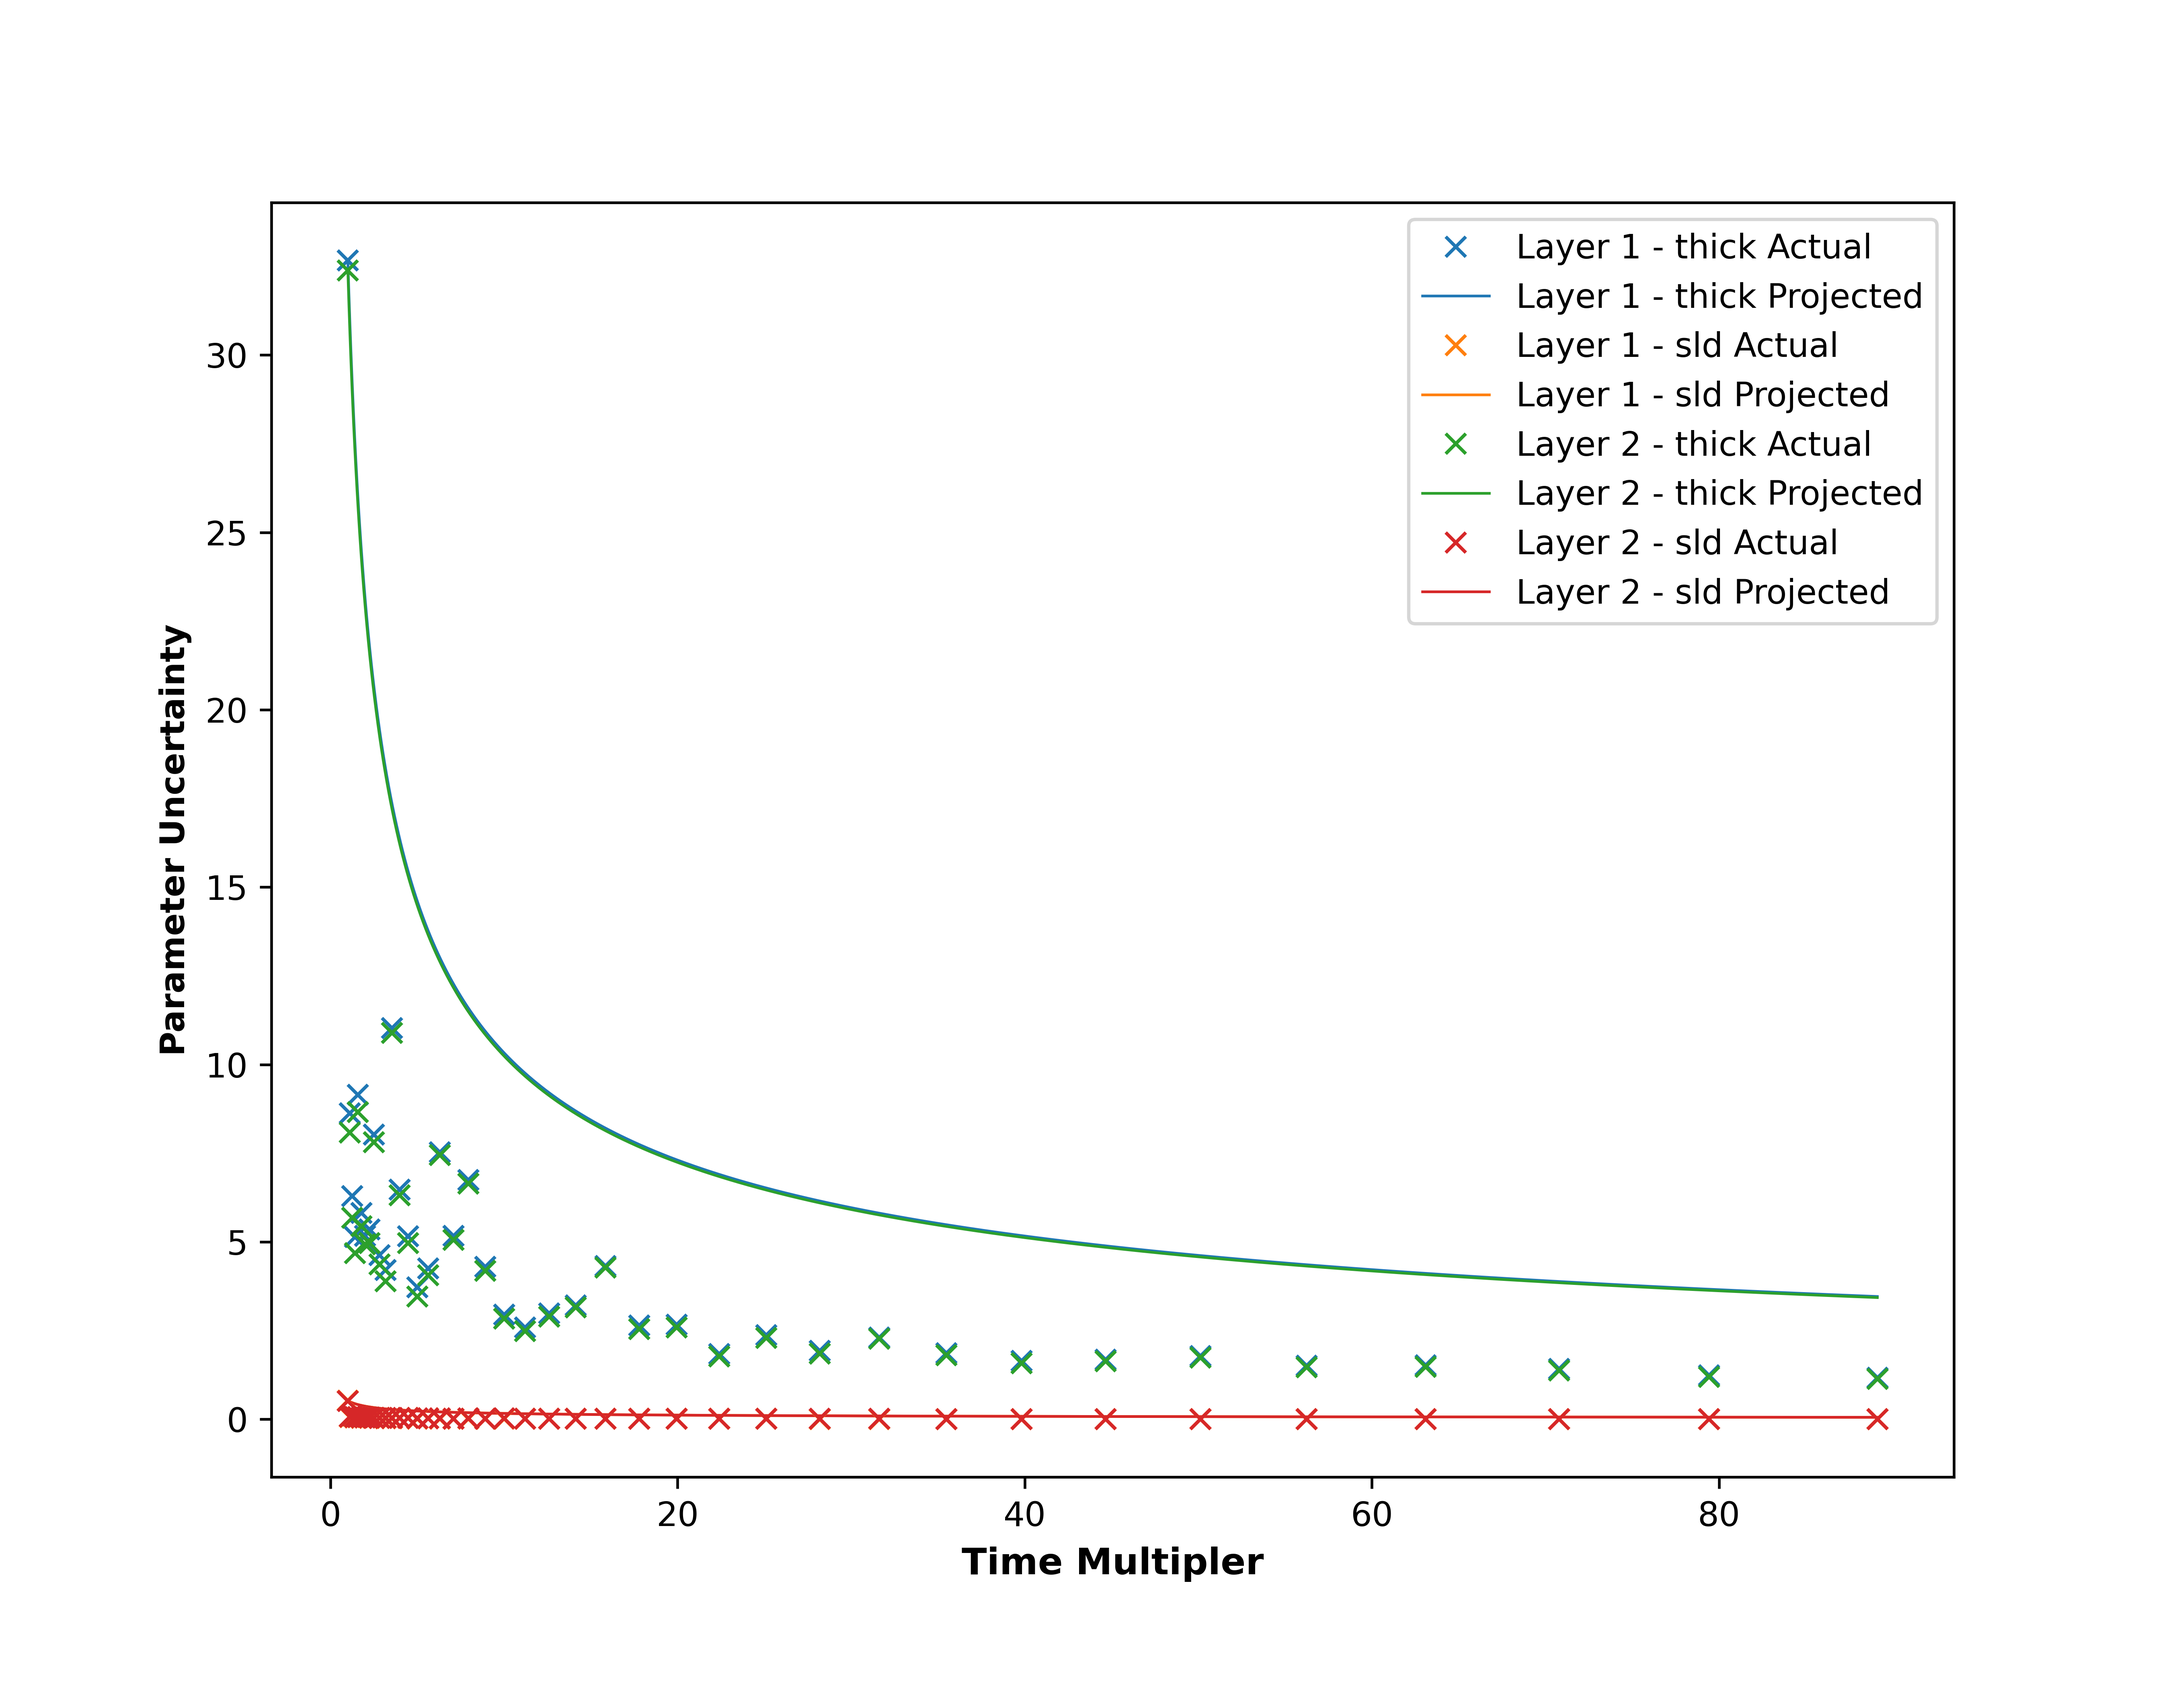
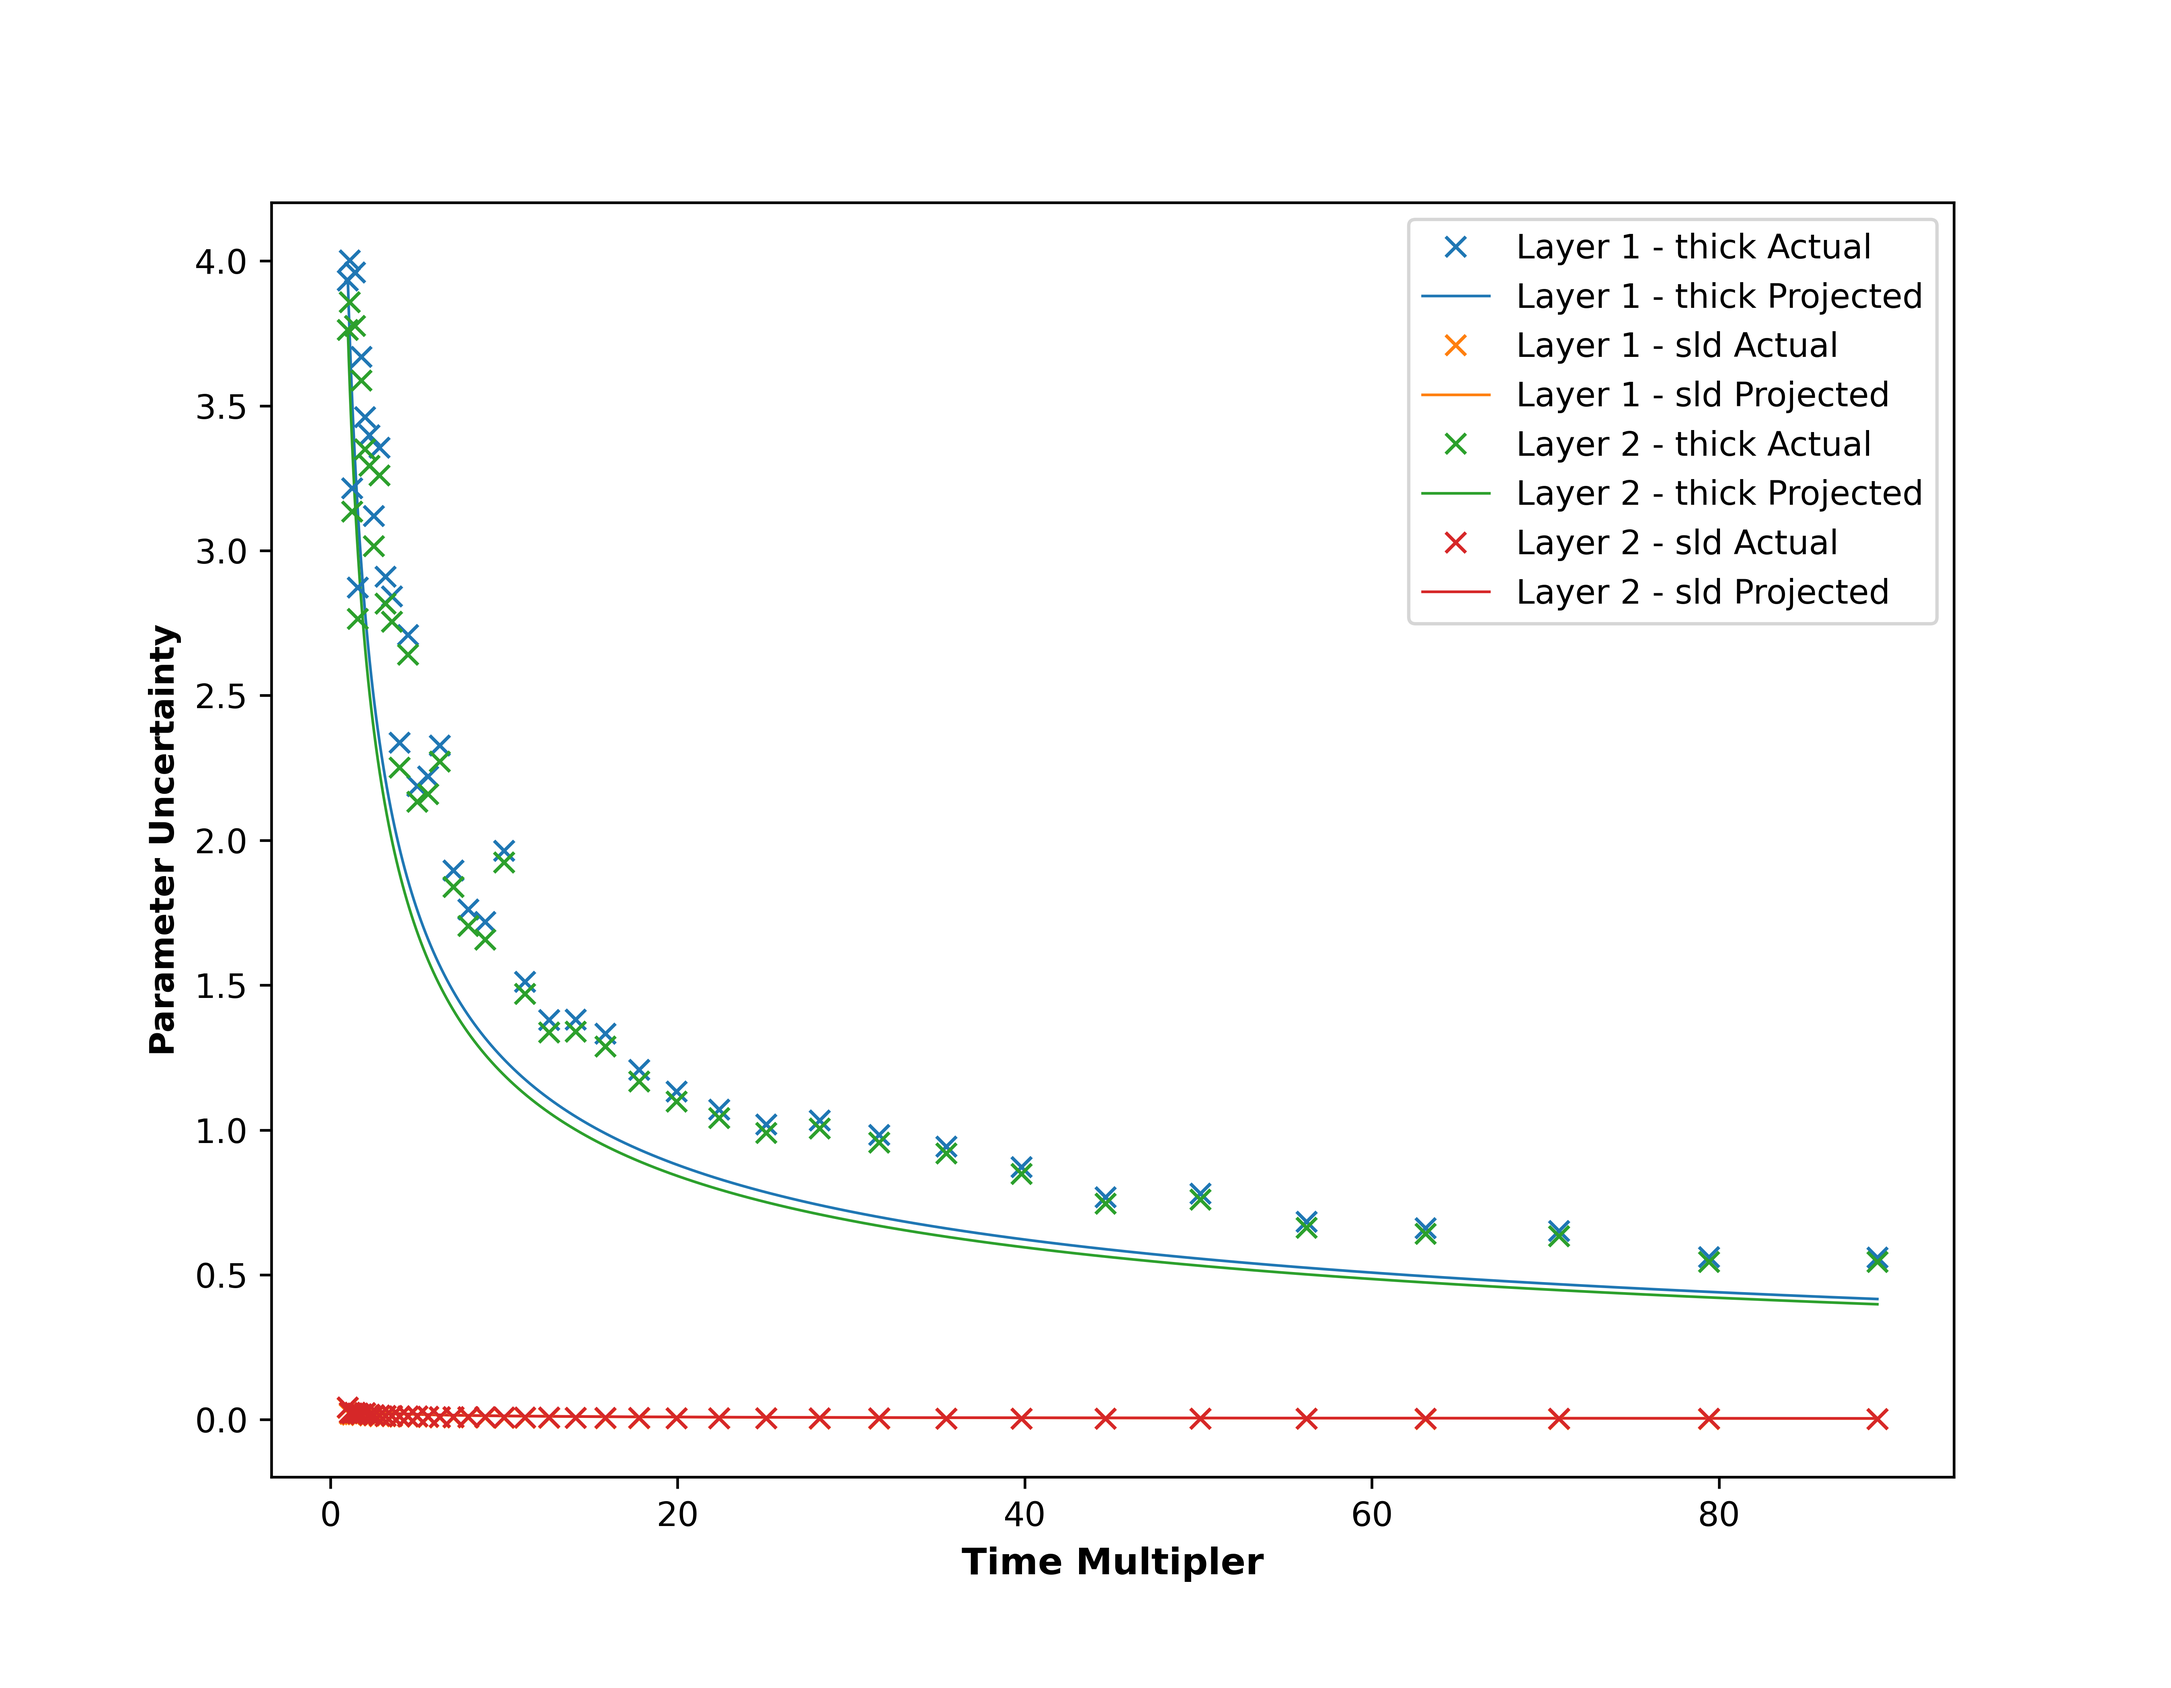
Updated uncertainty projection plots

diff --git a/fisher-information/time_dependence.py b/fisher-information/time_dependence.py
@@ -237,8 +237,7 @@ def plot_uncertainties(multipliers: ArrayLike, fit_uncertainties: ArrayLike,
        approximation of the gradient in each case.
 
     Args:
-        multipliers (numpy.ndarray): multipliers for which uncertainties were
-                                     calculated.
+        multipliers (numpy.ndarray): time multipliers.
         fit_uncertainties (numpy.ndarray): fitting uncertainties for each time.
         FIM_uncertainties (numpy.ndarray): FIM uncertainties for each time.
         names (list): parameter names.
@@ -292,9 +291,8 @@ def plot_fitting_error(multipliers: ArrayLike, errors: ArrayLike,
     """Plots mean absolute error vs. log time multiplier for each parameter.
 
     Args:
-        multipliers (numpy.ndarray): multipliers for which `fitted` values were
-                                     calculated.
-        errors (numpy.ndarray): mean absolute errors for each time multiplier.
+        multipliers (numpy.ndarray): time multipliers.
+        errors (numpy.ndarray): mean absolute errors for each multiplier.
         names (list): parameter names.
         save_path (str): path to directory to save figures to.
 
@@ -322,17 +320,19 @@ if __name__ == '__main__':
 
     save_path = './results'
 
-    structure = easy_sample # Choose structure here.
-    angle_times = {0.7: (70, 1), # Angle: (Points, Time)
-                   2.0: (70, 4)}
-    multipliers = 10**np.arange(0, 3, 0.01, dtype=float)
+    structure = similar_sld_sample_1 # Choose structure here.
+    angle_times = {0.7: (70, 5), # Angle: (Points, Time)
+                   2.0: (70, 20)}
 
     # Investigates how FIM and fitting uncertainties change with time.
+    multipliers = 10**np.arange(0, 3, 0.01, dtype=float)
     compare_uncertainties(structure, angle_times, multipliers, save_path)
 
     # Investigates how the uncertainty inversely proportional to time squared
     # relationship holds in practice.
+    multipliers = 10**np.arange(0, 2, 0.05, dtype=float)
     simulated_projections(structure, angle_times, multipliers, save_path)
 
+    # Plot the relationship for measured data of the QCS sample.
     data_path = './data'
     measured_projections(data_path, save_path)
